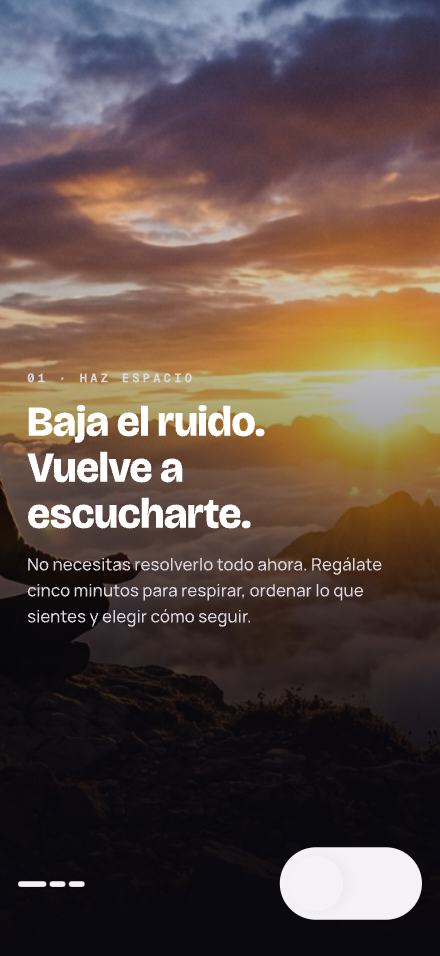
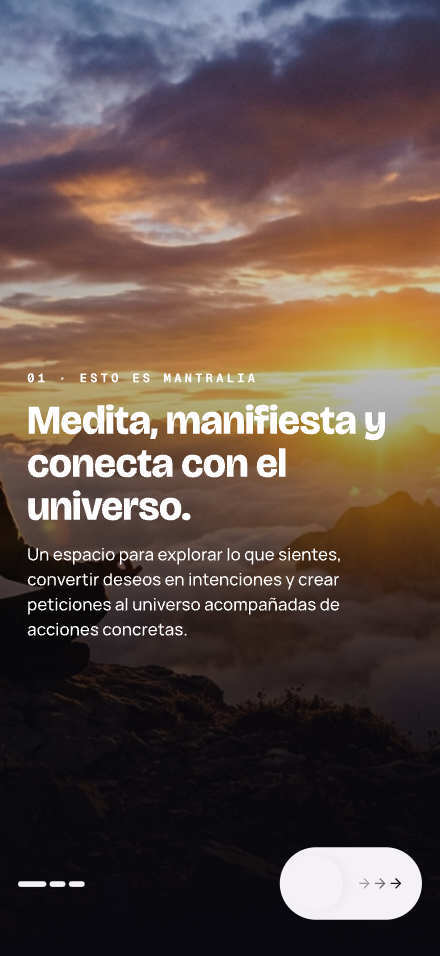
feat: sync updated Mantralia screens

Changed region(s): [[0.0591, 0.3944, 0.8864, 0.6674], [0.8568, 0.91, 0.9159, 0.9404]]

diff --git a/lib/screens/onboarding_flow.dart b/lib/screens/onboarding_flow.dart
@@ -21,6 +21,7 @@ class _OnboardingFlowState extends State<OnboardingFlow> {
   static const _nodes = [
     'TTLH4',
     'x36zX',
+    'bFUOx',
     '1DHid',
     'CqnJW',
     '3fTTR',
@@ -114,10 +115,10 @@ class _OnboardingFlowState extends State<OnboardingFlow> {
     });
   }
 
-  List<Widget> _choiceOverlays(int index, Size size) {
+  List<Widget> _choiceOverlays(String nodeId, Size size) {
     final horizontalInset = size.width * (24 / PencilSurface.canvasSize.width);
-    switch (index) {
-      case 5:
+    switch (nodeId) {
+      case 'tkH7u':
         return [
           Positioned(
             left: horizontalInset,
@@ -137,7 +138,7 @@ class _OnboardingFlowState extends State<OnboardingFlow> {
             ),
           ),
         ];
-      case 6:
+      case 'l5Vlq':
         return [
           Positioned(
             left: horizontalInset,
@@ -156,7 +157,7 @@ class _OnboardingFlowState extends State<OnboardingFlow> {
             ),
           ),
         ];
-      case 7:
+      case 'yBsgB':
         return [
           Positioned(
             left: horizontalInset,
@@ -188,7 +189,9 @@ class _OnboardingFlowState extends State<OnboardingFlow> {
       itemCount: _nodes.length,
       onPageChanged: (value) => setState(() => _page = value),
       itemBuilder: (context, index) {
-        if (index == 0) {
+        final nodeId = _nodes[index];
+
+        if (nodeId == 'TTLH4') {
           return _VideoStoryPage(
             active: _page == index,
             onContinue: _next,
@@ -202,7 +205,7 @@ class _OnboardingFlowState extends State<OnboardingFlow> {
           );
         }
 
-        if (index == 3) {
+        if (nodeId == 'CqnJW') {
           return _VideoStoryPage(
             active: _page == index,
             onContinue: _next,
@@ -218,31 +221,31 @@ class _OnboardingFlowState extends State<OnboardingFlow> {
         }
 
         return PencilSurface(
-          nodeId: _nodes[index],
+          nodeId: nodeId,
           showNavigation: false,
           respectSafeArea: false,
-          overlays: _choiceOverlays(index, size),
+          overlays: _choiceOverlays(nodeId, size),
           onTap: (point) {
-            if (index == 9 && point.dy > .32 && point.dy < .69) {
+            if (nodeId == 'wecjl' && point.dy > .32 && point.dy < .69) {
               context.push('/register');
               return;
             }
             // The refreshed paywall exposes both the trial CTA and the
             // continue-with-free-version action.
-            if (index == 10 && point.dy > .70 && point.dy < .90) {
+            if (nodeId == 'IEgGc' && point.dy > .70 && point.dy < .90) {
               _next();
               return;
             }
             // POST · Prueba activada → práctica lista → Home.
-            if (index == 11 && point.dy > .80 && point.dy < .90) {
+            if (nodeId == 'w4GjPh' && point.dy > .80 && point.dy < .90) {
               _next();
               return;
             }
-            if (index == 12 && point.dy > .87 && point.dy < .96) {
+            if (nodeId == 'D4A7Y' && point.dy > .87 && point.dy < .96) {
               _startPractice();
               return;
             }
-            if (index == 4 && point.dy > .78 && point.dy < .90) {
+            if (nodeId == '3fTTR' && point.dy > .78 && point.dy < .90) {
               _next();
               return;
             }

diff --git a/test/onboarding_navigation_test.dart b/test/onboarding_navigation_test.dart
@@ -3,7 +3,7 @@ import 'package:flutter_test/flutter_test.dart';
 import 'package:mantralia/screens/onboarding_flow.dart';
 
 void main() {
-  testWidgets('third onboarding screen advances to intention story', (
+  testWidgets('manifestation story advances to the intention story', (
     WidgetTester tester,
   ) async {
     tester.view.physicalSize = const Size(440, 956);
@@ -25,5 +25,10 @@ void main() {
     await tester.pump();
     await tester.pump(const Duration(milliseconds: 300));
     expect(controller().page, closeTo(3, .01));
+
+    await tester.tapAt(const Offset(392, 876));
+    await tester.pump();
+    await tester.pump(const Duration(milliseconds: 300));
+    expect(controller().page, closeTo(4, .01));
   });
 }
